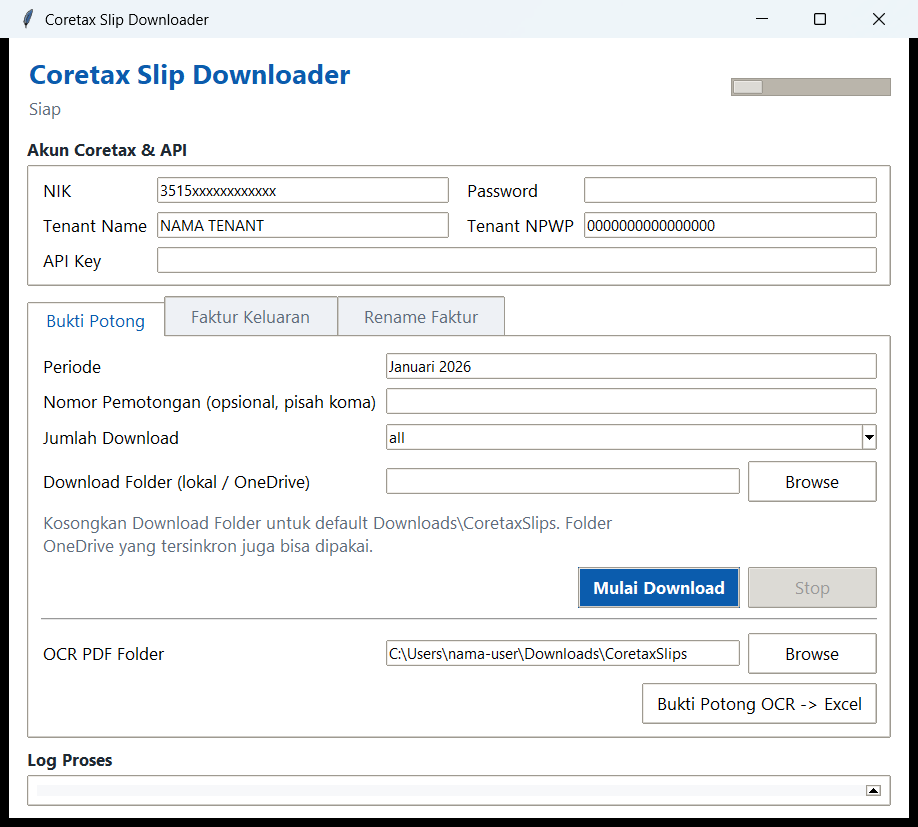
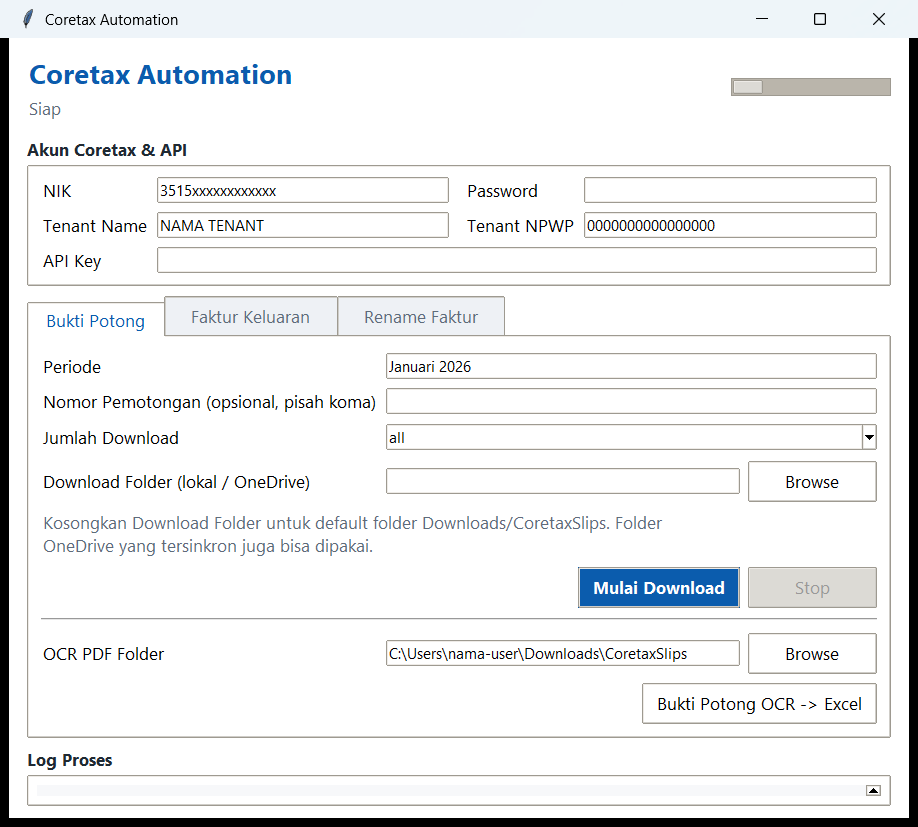
chore: rename app title to Coretax Automation, refresh screenshots

Changed region(s): [[0.3965, 0.6046, 0.7015, 0.6651], [0.1525, 0.0605, 0.366, 0.1209], [0.0915, 0.0, 0.2135, 0.0302]]

diff --git a/gui.py b/gui.py
@@ -9,7 +9,7 @@ from tkinter import ttk
 from utils.paths import onedrive_root, resolve_dir
 
 
-APP_TITLE = "Coretax Slip Downloader"
+APP_TITLE = "Coretax Automation"
 DEFAULT_URL = "https://coretaxdjp.pajak.go.id/identityproviderportal/Account/Login"
 ACCENT = "#0b5cad"
 ACCENT_DARK = "#08467f"
@@ -232,6 +232,7 @@ class CoretaxApp:
             tab,
             text="Kosongkan folder untuk default folder Downloads/CoretaxFaktur. Faktur yang sudah pernah didownload dilewati.",
             style="Hint.TLabel",
+            wraplength=640,
             justify="left",
         ).grid(row=3, column=0, columnspan=3, sticky="w", pady=(2, 8))
         action_bar = ttk.Frame(tab)

diff --git a/README.md b/README.md
@@ -1,6 +1,6 @@
 <div align="center">
 
-# Coretax Slip Downloader
+# Coretax Automation
 
 **Download bukti potong & faktur pajak keluaran dari Coretax DJP secara otomatis, lalu rename faktur sesuai Customer ID.**
 
